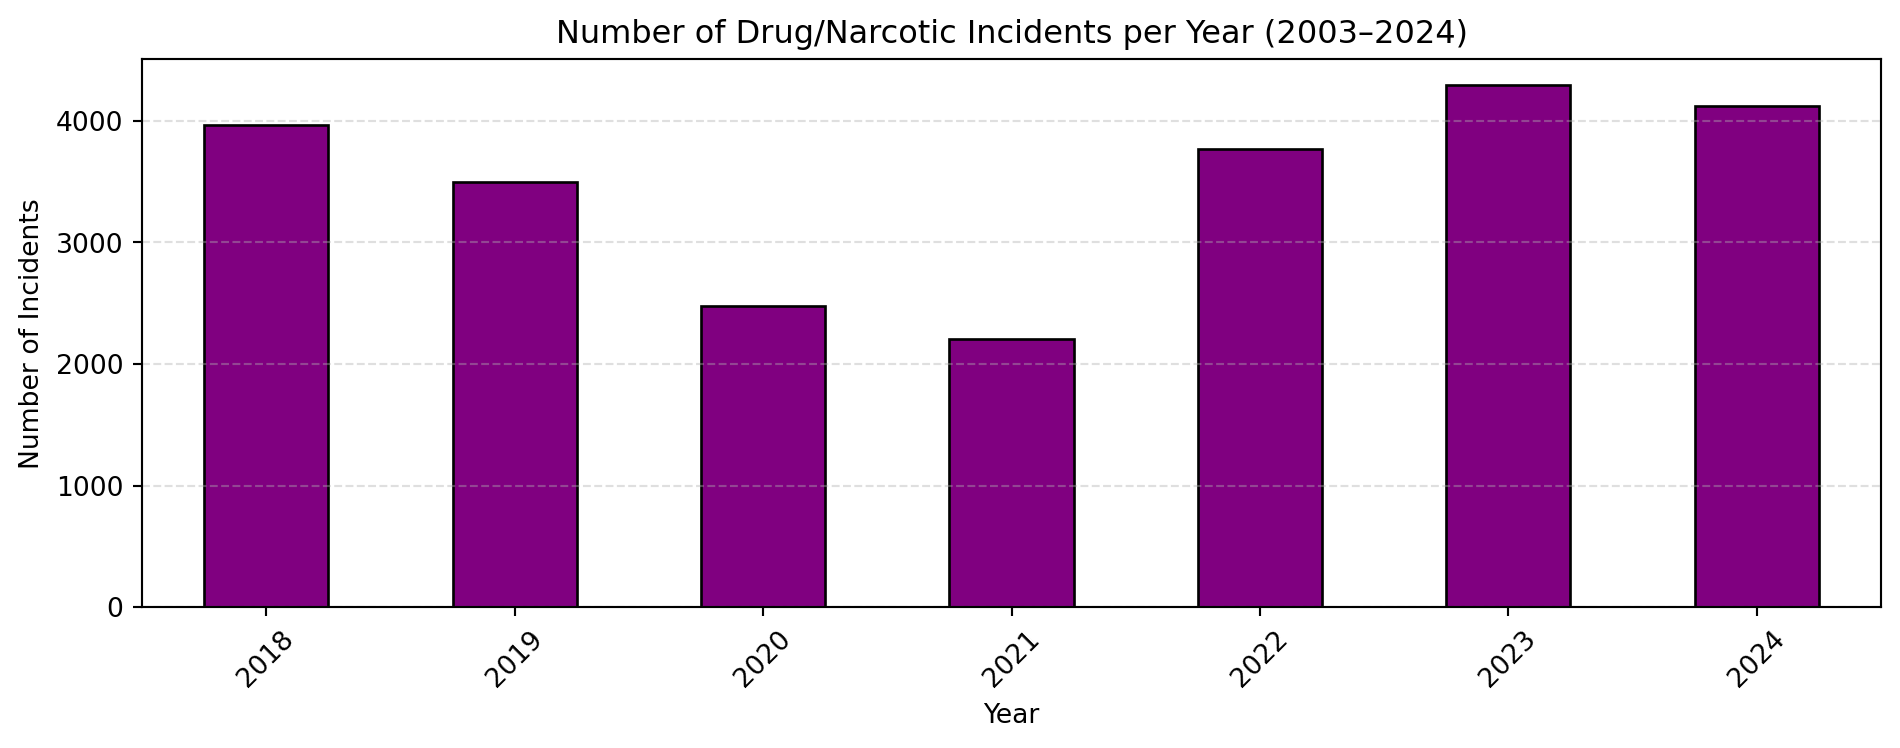
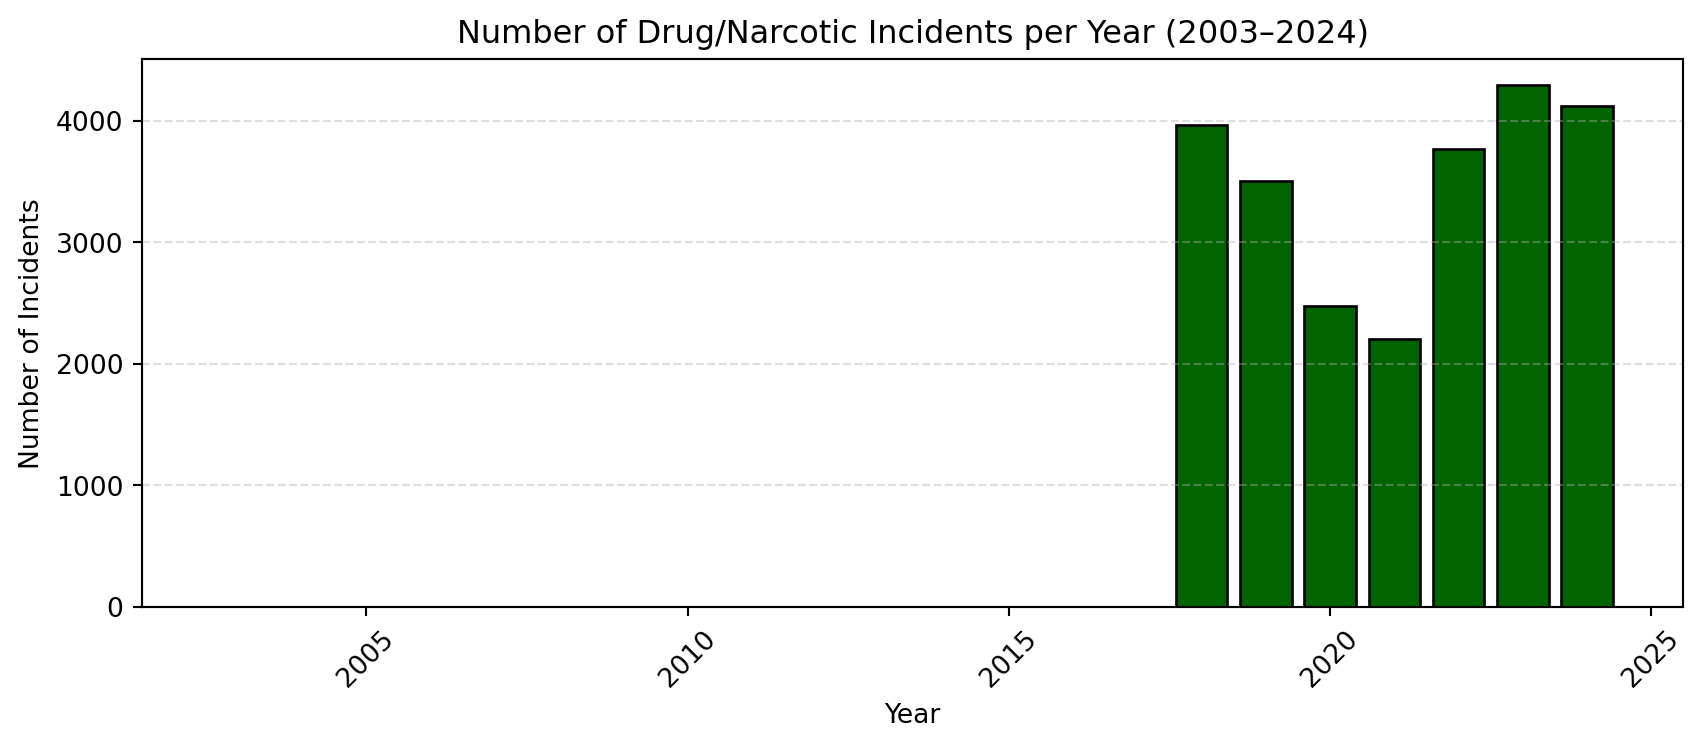
Built site for gh-pages

diff --git a/index.html b/index.html
@@ -140,7 +140,7 @@ pre > code.sourceCode > span > a:first-child::before { text-decoration: underlin
 </section>
 <section id="crime-trends-over-time" class="level1">
 <h1>Crime Trends Over Time</h1>
-<div id="bbe692db" class="cell" data-execution_count="1">
+<div id="4fee61b6" class="cell" data-execution_count="1">
 <details class="code-fold">
 <summary>Show code</summary>
 <div class="sourceCode cell-code" id="cb1"><pre class="sourceCode python code-with-copy"><code class="sourceCode python"><span id="cb1-1"><a href="#cb1-1" aria-hidden="true" tabindex="-1"></a><span class="im">import</span> pandas <span class="im">as</span> pd</span>
@@ -157,33 +157,34 @@ pre > code.sourceCode > span > a:first-child::before { text-decoration: underlin
 <span id="cb1-12"><a href="#cb1-12" aria-hidden="true" tabindex="-1"></a><span class="co"># Standardize category column name</span></span>
 <span id="cb1-13"><a href="#cb1-13" aria-hidden="true" tabindex="-1"></a>category_col <span class="op">=</span> <span class="st">'Incident Category'</span> <span class="cf">if</span> <span class="st">'Incident Category'</span> <span class="kw">in</span> df.columns <span class="cf">else</span> <span class="st">'Category'</span></span>
 <span id="cb1-14"><a href="#cb1-14" aria-hidden="true" tabindex="-1"></a></span>
-<span id="cb1-15"><a href="#cb1-15" aria-hidden="true" tabindex="-1"></a><span class="co"># Filter for DRUG/NARCOTIC incidents (case-insensitive match)</span></span>
-<span id="cb1-16"><a href="#cb1-16" aria-hidden="true" tabindex="-1"></a>df <span class="op">=</span> df[df[category_col].<span class="bu">str</span>.upper().<span class="bu">str</span>.contains(<span class="st">'DRUG|NARCOTIC'</span>, na<span class="op">=</span><span class="va">False</span>)]</span>
+<span id="cb1-15"><a href="#cb1-15" aria-hidden="true" tabindex="-1"></a><span class="co"># Filter for DRUG/NARCOTIC incidents</span></span>
+<span id="cb1-16"><a href="#cb1-16" aria-hidden="true" tabindex="-1"></a>df <span class="op">=</span> df[df[category_col].<span class="bu">str</span>.upper().<span class="bu">str</span>.contains(<span class="st">"DRUG|NARCOTIC"</span>, na<span class="op">=</span><span class="va">False</span>)]</span>
 <span id="cb1-17"><a href="#cb1-17" aria-hidden="true" tabindex="-1"></a></span>
-<span id="cb1-18"><a href="#cb1-18" aria-hidden="true" tabindex="-1"></a><span class="co"># Parse and filter date</span></span>
+<span id="cb1-18"><a href="#cb1-18" aria-hidden="true" tabindex="-1"></a><span class="co"># Parse dates and filter by year</span></span>
 <span id="cb1-19"><a href="#cb1-19" aria-hidden="true" tabindex="-1"></a>df[<span class="st">'Date'</span>] <span class="op">=</span> pd.to_datetime(df[<span class="st">'Incident Date'</span>], errors<span class="op">=</span><span class="st">'coerce'</span>)</span>
 <span id="cb1-20"><a href="#cb1-20" aria-hidden="true" tabindex="-1"></a>df <span class="op">=</span> df.dropna(subset<span class="op">=</span>[<span class="st">'Date'</span>])</span>
 <span id="cb1-21"><a href="#cb1-21" aria-hidden="true" tabindex="-1"></a>df[<span class="st">'Year'</span>] <span class="op">=</span> df[<span class="st">'Date'</span>].dt.year</span>
 <span id="cb1-22"><a href="#cb1-22" aria-hidden="true" tabindex="-1"></a>df <span class="op">=</span> df[(df[<span class="st">'Year'</span>] <span class="op">&gt;=</span> <span class="dv">2003</span>) <span class="op">&amp;</span> (df[<span class="st">'Year'</span>] <span class="op">&lt;=</span> <span class="dv">2024</span>)]</span>
 <span id="cb1-23"><a href="#cb1-23" aria-hidden="true" tabindex="-1"></a></span>
-<span id="cb1-24"><a href="#cb1-24" aria-hidden="true" tabindex="-1"></a><span class="co"># Count incidents by year</span></span>
-<span id="cb1-25"><a href="#cb1-25" aria-hidden="true" tabindex="-1"></a>yearly <span class="op">=</span> df.groupby(<span class="st">'Year'</span>).size()</span>
-<span id="cb1-26"><a href="#cb1-26" aria-hidden="true" tabindex="-1"></a></span>
-<span id="cb1-27"><a href="#cb1-27" aria-hidden="true" tabindex="-1"></a><span class="co"># Plot</span></span>
-<span id="cb1-28"><a href="#cb1-28" aria-hidden="true" tabindex="-1"></a>plt.figure(figsize<span class="op">=</span>(<span class="dv">10</span>, <span class="dv">4</span>))  <span class="co"># smaller like your image</span></span>
-<span id="cb1-29"><a href="#cb1-29" aria-hidden="true" tabindex="-1"></a>yearly.plot(kind<span class="op">=</span><span class="st">'bar'</span>, color<span class="op">=</span><span class="st">'purple'</span>, edgecolor<span class="op">=</span><span class="st">'black'</span>)</span>
-<span id="cb1-30"><a href="#cb1-30" aria-hidden="true" tabindex="-1"></a>plt.title(<span class="st">"Number of Drug/Narcotic Incidents per Year (2003–2024)"</span>)</span>
-<span id="cb1-31"><a href="#cb1-31" aria-hidden="true" tabindex="-1"></a>plt.xlabel(<span class="st">"Year"</span>)</span>
-<span id="cb1-32"><a href="#cb1-32" aria-hidden="true" tabindex="-1"></a>plt.ylabel(<span class="st">"Number of Incidents"</span>)</span>
-<span id="cb1-33"><a href="#cb1-33" aria-hidden="true" tabindex="-1"></a>plt.xticks(rotation<span class="op">=</span><span class="dv">45</span>)</span>
-<span id="cb1-34"><a href="#cb1-34" aria-hidden="true" tabindex="-1"></a>plt.grid(axis<span class="op">=</span><span class="st">'y'</span>, linestyle<span class="op">=</span><span class="st">'--'</span>, alpha<span class="op">=</span><span class="fl">0.4</span>)</span>
-<span id="cb1-35"><a href="#cb1-35" aria-hidden="true" tabindex="-1"></a>plt.tight_layout()</span>
-<span id="cb1-36"><a href="#cb1-36" aria-hidden="true" tabindex="-1"></a>plt.show()</span></code><button title="Copy to Clipboard" class="code-copy-button"><i class="bi"></i></button></pre></div>
+<span id="cb1-24"><a href="#cb1-24" aria-hidden="true" tabindex="-1"></a><span class="co"># Count incidents per year (include missing years as 0)</span></span>
+<span id="cb1-25"><a href="#cb1-25" aria-hidden="true" tabindex="-1"></a>year_range <span class="op">=</span> <span class="bu">list</span>(<span class="bu">range</span>(<span class="dv">2003</span>, <span class="dv">2025</span>))</span>
+<span id="cb1-26"><a href="#cb1-26" aria-hidden="true" tabindex="-1"></a>yearly <span class="op">=</span> df.groupby(<span class="st">'Year'</span>).size().reindex(year_range, fill_value<span class="op">=</span><span class="dv">0</span>)</span>
+<span id="cb1-27"><a href="#cb1-27" aria-hidden="true" tabindex="-1"></a></span>
+<span id="cb1-28"><a href="#cb1-28" aria-hidden="true" tabindex="-1"></a><span class="co"># Plot (compact style like your image)</span></span>
+<span id="cb1-29"><a href="#cb1-29" aria-hidden="true" tabindex="-1"></a>plt.figure(figsize<span class="op">=</span>(<span class="dv">9</span>, <span class="dv">4</span>))</span>
+<span id="cb1-30"><a href="#cb1-30" aria-hidden="true" tabindex="-1"></a>bars <span class="op">=</span> plt.bar(yearly.index, yearly.values, color<span class="op">=</span><span class="st">'darkgreen'</span>, edgecolor<span class="op">=</span><span class="st">'black'</span>)</span>
+<span id="cb1-31"><a href="#cb1-31" aria-hidden="true" tabindex="-1"></a>plt.title(<span class="st">"Number of Drug/Narcotic Incidents per Year (2003–2024)"</span>)</span>
+<span id="cb1-32"><a href="#cb1-32" aria-hidden="true" tabindex="-1"></a>plt.xlabel(<span class="st">"Year"</span>)</span>
+<span id="cb1-33"><a href="#cb1-33" aria-hidden="true" tabindex="-1"></a>plt.ylabel(<span class="st">"Number of Incidents"</span>)</span>
+<span id="cb1-34"><a href="#cb1-34" aria-hidden="true" tabindex="-1"></a>plt.xticks(rotation<span class="op">=</span><span class="dv">45</span>)</span>
+<span id="cb1-35"><a href="#cb1-35" aria-hidden="true" tabindex="-1"></a>plt.grid(axis<span class="op">=</span><span class="st">'y'</span>, linestyle<span class="op">=</span><span class="st">'--'</span>, alpha<span class="op">=</span><span class="fl">0.4</span>)</span>
+<span id="cb1-36"><a href="#cb1-36" aria-hidden="true" tabindex="-1"></a>plt.tight_layout()</span>
+<span id="cb1-37"><a href="#cb1-37" aria-hidden="true" tabindex="-1"></a>plt.show()</span></code><button title="Copy to Clipboard" class="code-copy-button"><i class="bi"></i></button></pre></div>
 </details>
 <div class="cell-output cell-output-display">
 <div>
 <figure class="figure">
-<p><img src="index_files/figure-html/cell-2-output-1.png" width="950" height="374" class="figure-img"></p>
+<p><img src="index_files/figure-html/cell-2-output-1.png" width="852" height="374" class="figure-img"></p>
 </figure>
 </div>
 </div>
